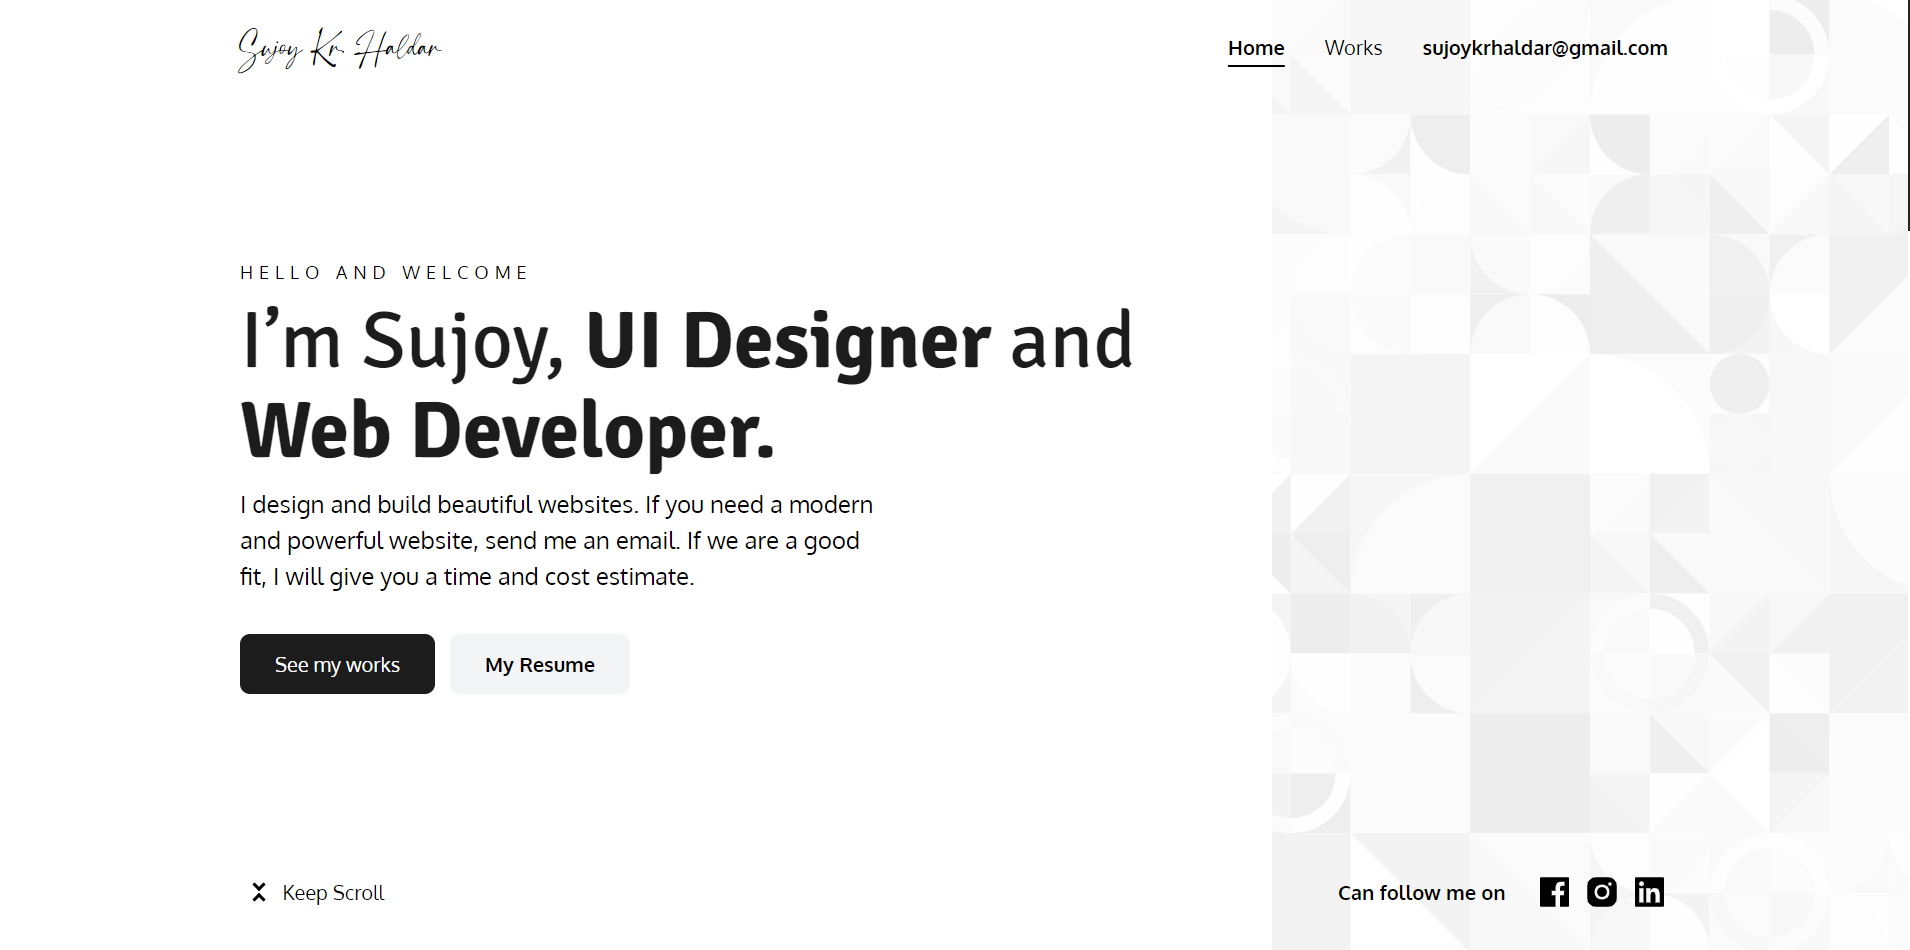
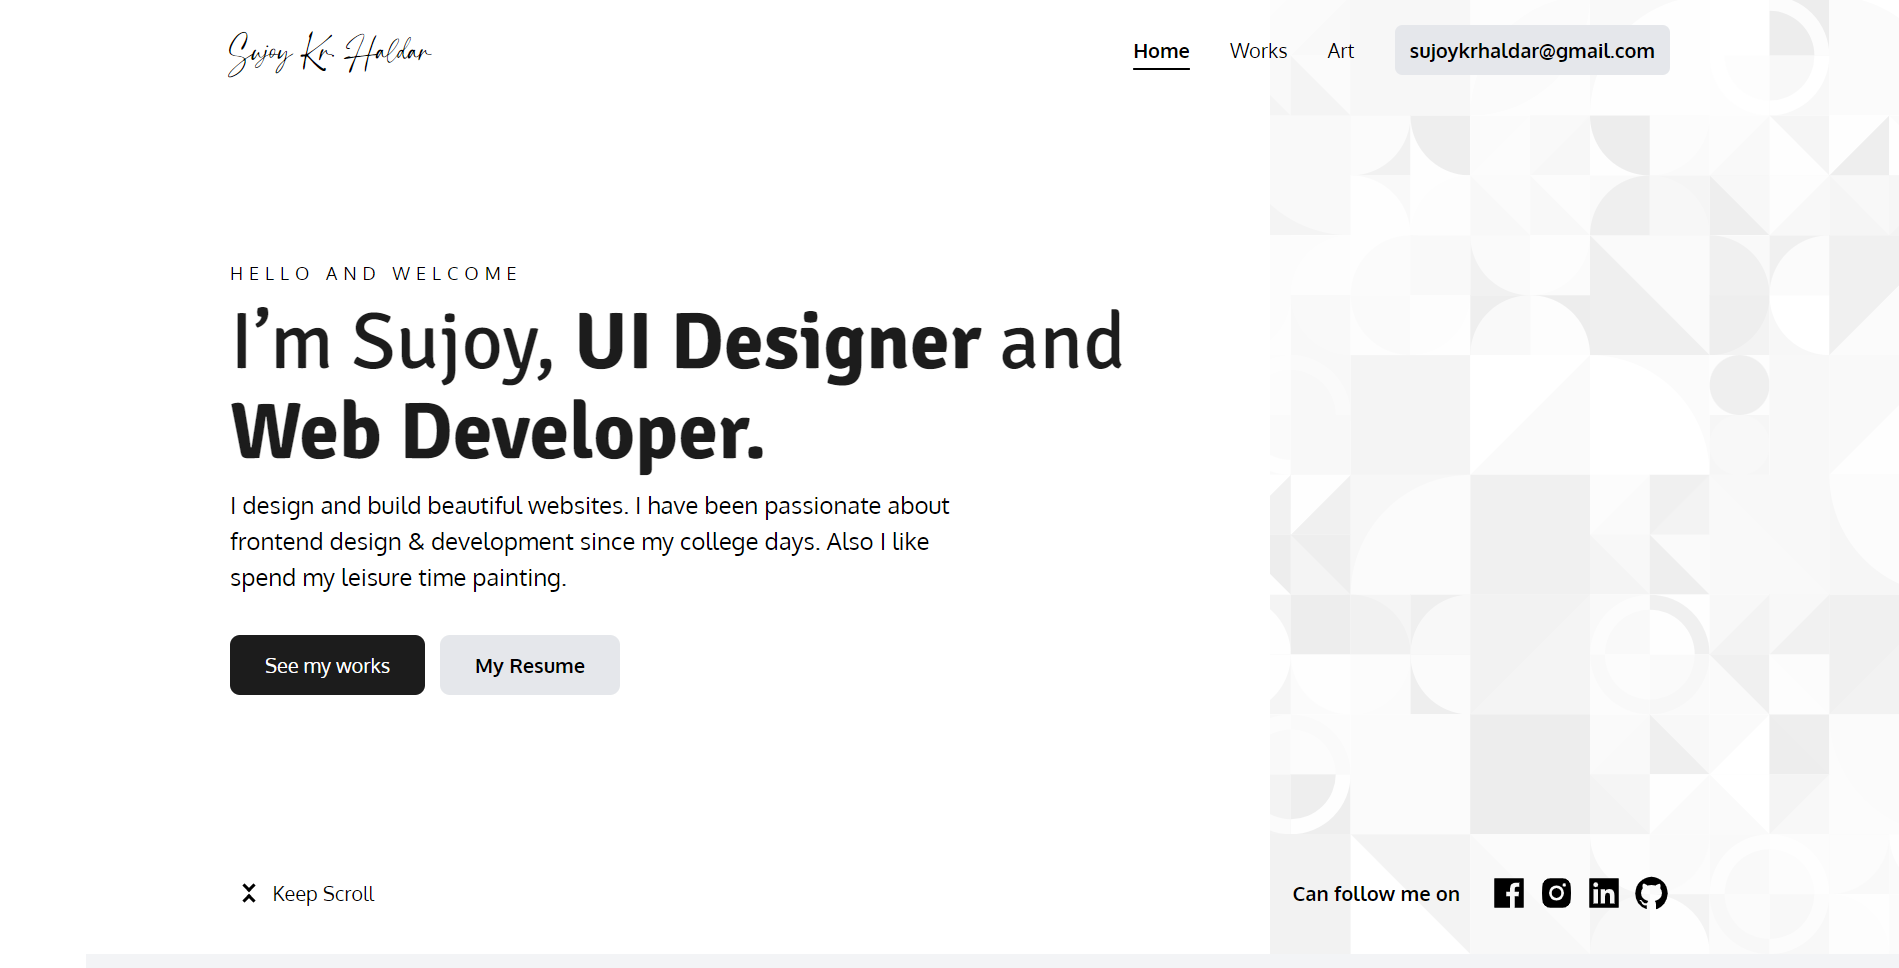
resume update && readme update

diff --git a/components/home/Landing.jsx b/components/home/Landing.jsx
@@ -68,8 +68,6 @@ function Landing() {
                 I design and build beautiful websites. I have been passionate
                 about frontend design & development since my college days. Also
                 I like spend my leisure time painting.
-                {/* If you need a modern and powerful website, send me an email. If we are
-                a good fit, I will give you a time and cost estimate. */}
               </p>
               <div className="flex gap-3">
                 <Link href="#latest-projects">
@@ -78,7 +76,7 @@ function Landing() {
                   </a>
                 </Link>
 
-                <Link href="Resume_sujoyKrHaldar.pdf">
+                <Link href="/myResume.pdf">
                   <a
                     target="_blank"
                     className="bg-white rounded-xl lg:rounded-lg sm:bg-gray-200 md:hover:bg-gray-300
